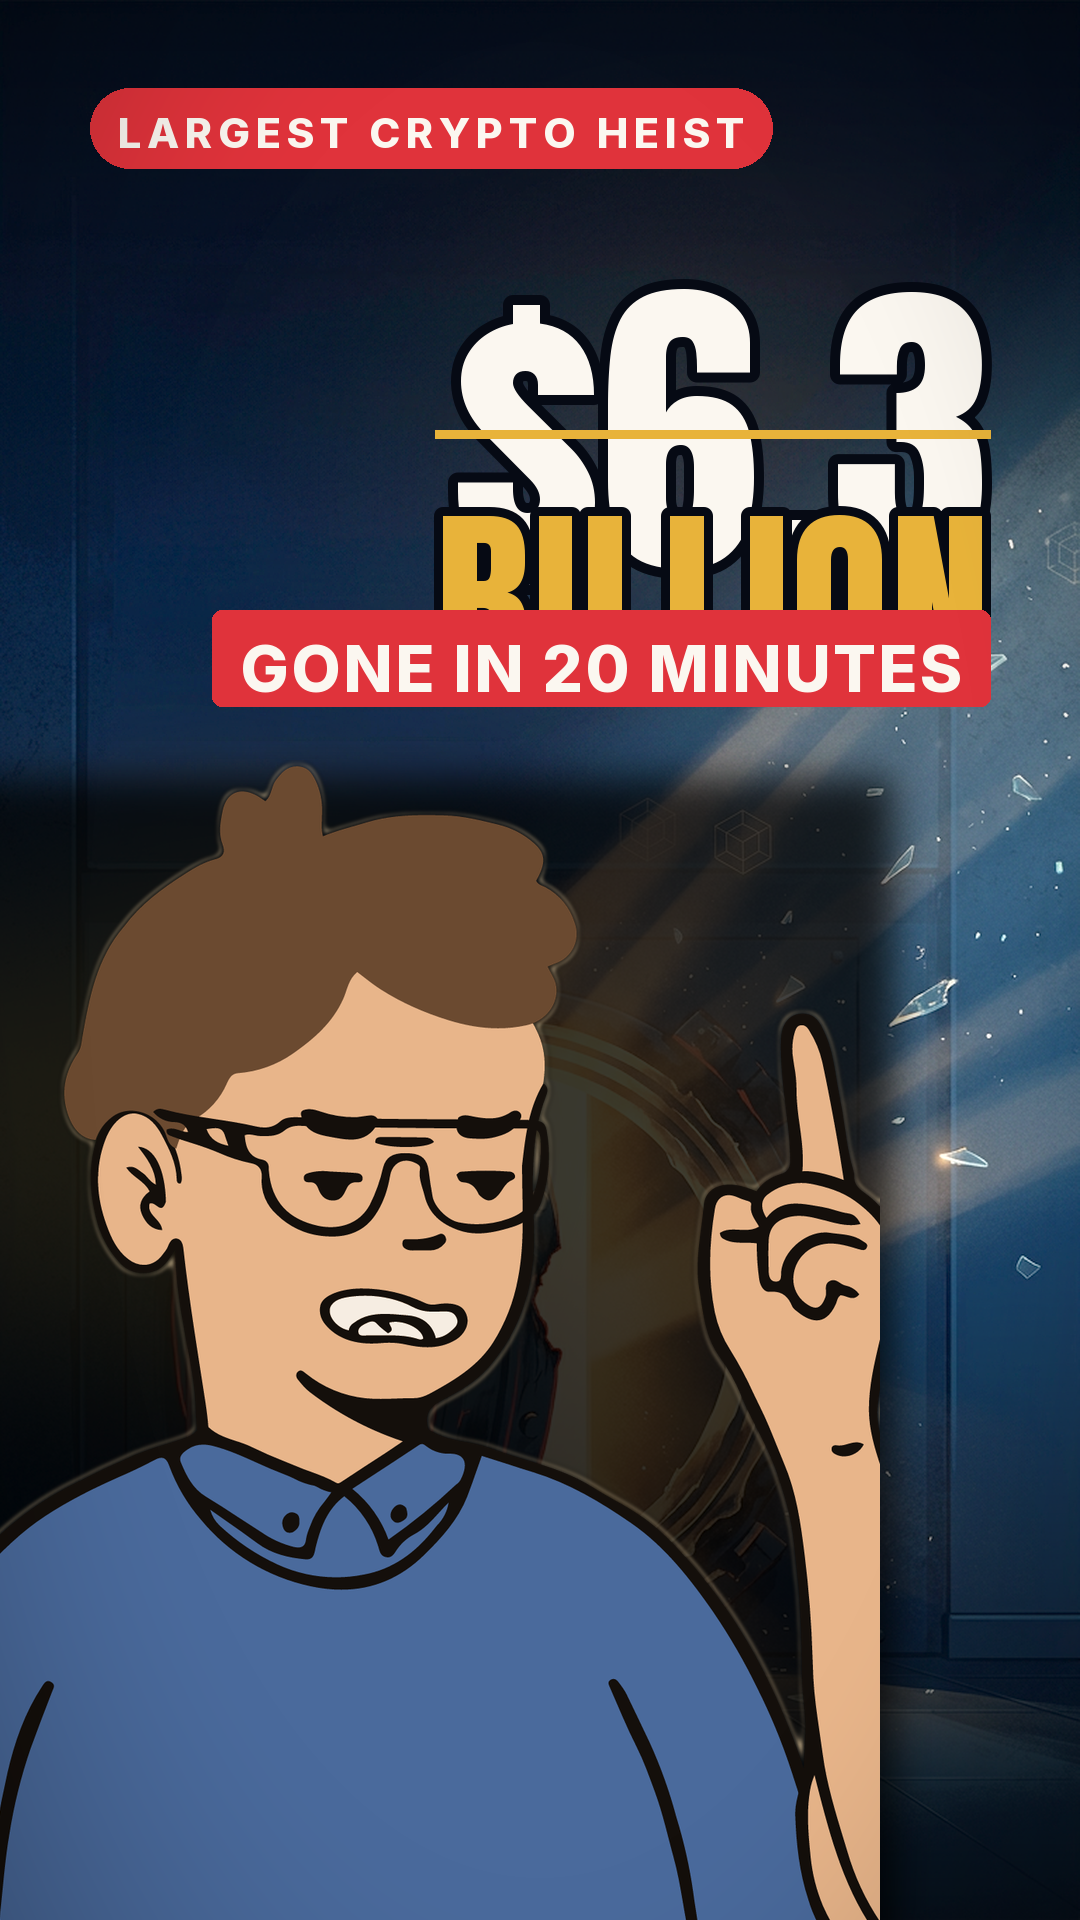
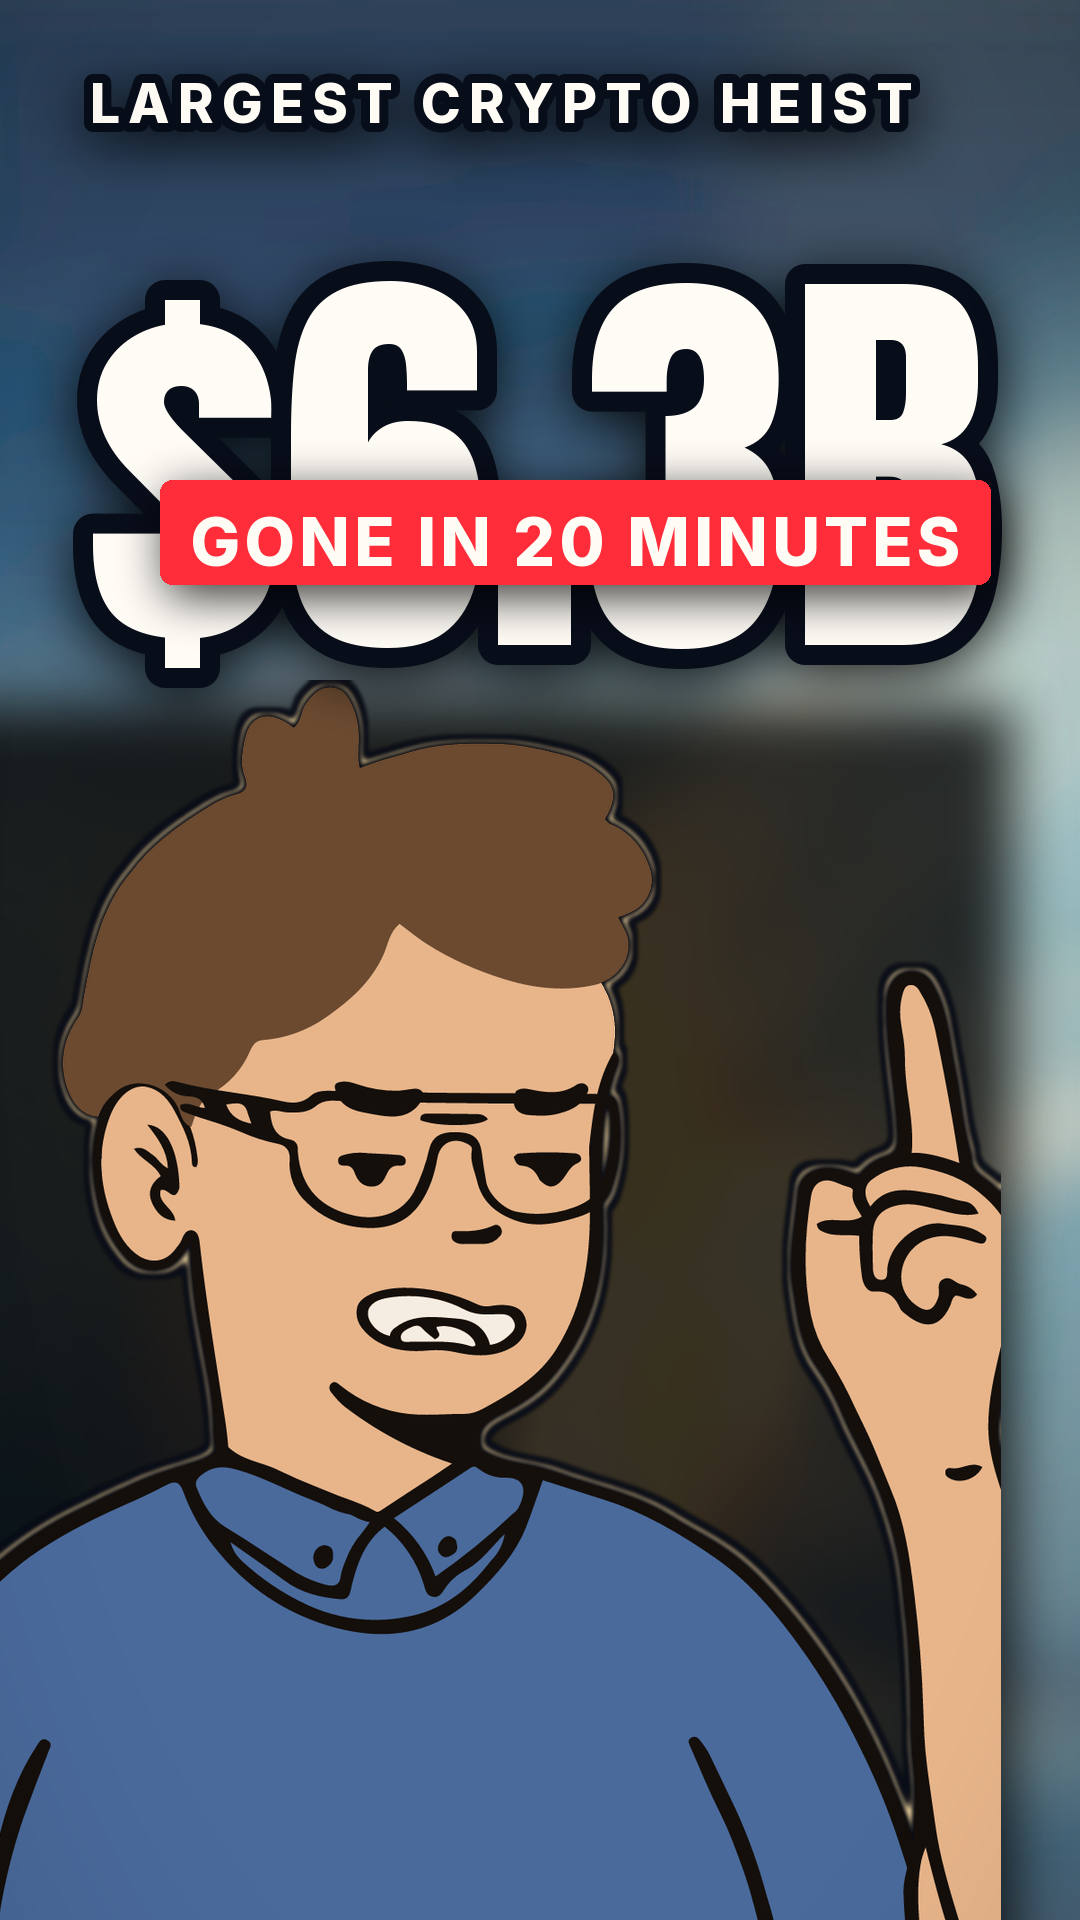
SHORTS-2026-024: rebuild the thumbnail to a 50M-subscriber standard
The first thumbnail read as a poster, not as a thumbnail. Rebuilt against what
the big channels actually publish:

  * one idea, three type sizes - kicker 54 / $6.3B 420 / bar 66, nothing else
    on screen, every word legible on a 270x480 phone tile;
  * the face at 25 % of frame height (was 22 % and low in frame) with a hard
    sticker outline plus a warm rim, so it separates from any background;
  * high-key art: the generated backdrop is thrown out of focus and graded
    bright (mean luma 0.294 -> 0.375, crushed 26 % -> 6.3 %);
  * strict hierarchy and contrast: face 0.53 against a 0.19 surround, suit
    0.38, number p95 0.99 at tile size;
  * 0 colliding pixels between type and subject, nothing in the bottom 25 % or
    within 90 px of the right edge.

Fixes a real bug found while grading: the warm burst painted an opaque
near-black disc over the background (alpha 255 with a near-zero colour) instead
of lighting it - the alpha now carries the falloff.

Uploaded to the delivery folder, replacing the previous thumbnail.

diff --git a/projects/SHORTS-2026-024-Binance-63B/thumbnails/build_thumbnail.py b/projects/SHORTS-2026-024-Binance-63B/thumbnails/build_thumbnail.py
@@ -1,23 +1,27 @@
 """Build the clickbait thumbnail for SHORTS-2026-024B.
 
+Standard: what a 50-million-subscriber channel would publish. That means
+
+  * one idea, three words, legible at a 100 px tile — nothing else on screen;
+  * a face big enough to read the emotion (26 % of frame height) with a hard
+    sticker outline so it separates from any background;
+  * bright, saturated, high-key art — dark muddy thumbnails do not get clicked;
+  * strict size hierarchy: kicker → number → bar, nothing in between.
+
+The host is NOT redrawn: he is the same DiceBear Notionists character the film
+uses (CC0 1.0, Zoish), read out of media-production/src/host/parts.ts and
+rasterised with resvg in the `pointLongArm` pose — brow raised, mid-sentence —
+so the thumbnail and the film show the same person. The background is generated
+art, thrown out of focus and graded high-key; every glyph is drawn with PIL, so
+the spelling is exact at any size.
+
 Reproduce with:
     pip install --break-system-packages pillow numpy resvg-py fonttools brotli
     npm install --prefix /tmp/fonts @fontsource/anton @fontsource/inter
     python3 -c "from fontTools.ttLib import TTFont; import glob; \\
         TTFont('/tmp/fonts/node_modules/@fontsource/anton/files/anton-latin-400-normal.woff').save('/tmp/fonts/Anton.ttf'); \\
-        TTFont(sorted(glob.glob('/tmp/fonts/node_modules/@fontsource/inter/files/inter-latin-8*-normal.woff'))[-1]).save('/tmp/fonts/Inter-Black.ttf'); \\
-        TTFont(sorted(glob.glob('/tmp/fonts/node_modules/@fontsource/inter/files/inter-latin-6*-normal.woff'))[-1]).save('/tmp/fonts/Inter-Bold.ttf')"
+        TTFont(sorted(glob.glob('/tmp/fonts/node_modules/@fontsource/inter/files/inter-latin-8*-normal.woff'))[-1]).save('/tmp/fonts/Inter-Black.ttf')"
     python3 build_thumbnail.py
-
-The host is NOT redrawn for the thumbnail: he is the same DiceBear Notionists
-character the film uses (CC0 1.0, Zoish), read out of
-media-production/src/host/parts.ts and rasterised with resvg in the pose
-`pointLongArm` — brow raised, mid-sentence — so the thumbnail and the film show
-the same person. The background is generated art; every glyph is drawn with PIL
-so the spelling is exact at any size.
-
-Layout rule: all type lives above y 706, the host owns everything below y 766.
-That keeps the two from colliding and keeps the type clear of the Shorts UI.
 """
 import io, os, sys
 import numpy as np
@@ -31,15 +35,15 @@ HERE = os.path.dirname(os.path.abspath(__file__))
 W, H = 1080, 1920
 BG = os.path.join(HERE, '_bg_source.png')
 OUT = os.path.join(HERE, '01_THUMBNAIL_1080x1920.png')
+SMALL = os.path.join(HERE, '01_THUMBNAIL_540x960.png')
 
-PAPER = (251, 247, 240)   # theme2d paper
-GOLD = (232, 179, 58)     # theme2d gold
-RED = (224, 51, 59)       # alarm accent, thumbnail only
-INK = (11, 18, 32)        # theme2d ink
+PAPER = (255, 252, 246)
+GOLD = (255, 198, 58)
+RED = (255, 45, 58)
+INK = (8, 13, 26)
 
 ANTON = '/tmp/fonts/Anton.ttf'
 INTER_B = '/tmp/fonts/Inter-Black.ttf'
-INTER = '/tmp/fonts/Inter-Bold.ttf'
 
 
 def font(path, size):
@@ -53,7 +57,6 @@ def text_w(draw, s, f, spacing=0):
 
 
 def draw_tracked(draw, xy, s, f, fill, spacing=0, stroke=0, sc=INK):
-    """Draw text with manual letterspacing and an outline."""
     x, y = xy
     for c in s:
         draw.text((x, y), c, font=f, fill=fill, stroke_width=stroke, stroke_fill=sc)
@@ -61,104 +64,144 @@ def draw_tracked(draw, xy, s, f, fill, spacing=0, stroke=0, sc=INK):
     return x
 
 
-# ---------------------------------------------------------------- background
-bg = Image.open(BG).convert('RGB').resize((W, H), Image.LANCZOS)
-a = np.asarray(bg, dtype=np.float32) / 255
-a = np.clip(a, 0, 1) ** 0.72 * 1.06          # lift the midtones
-yy = np.linspace(0, 1, H, dtype=np.float32)[:, None]
-a = a * (1 - 0.55 * np.clip((0.30 - yy) / 0.30, 0, 1)[..., None])   # keep the top dark
-a = a * (1 - 0.72 * np.clip((yy - 0.62) / 0.38, 0, 1)[..., None])   # ground the bottom
-a[..., 0] *= 1.03
-a[..., 2] *= 0.97
-img = Image.fromarray(np.clip(a * 255, 0, 255).astype(np.uint8), 'RGB')
+def drop_shadow(base, layer_fn, blur=22):
+    """Blur a copy of `layer_fn` and paste it under the crisp version."""
+    sh = Image.new('RGBA', base.size, (0, 0, 0, 0))
+    layer_fn(ImageDraw.Draw(sh))
+    base.alpha_composite(sh.filter(ImageFilter.GaussianBlur(blur)))
 
-# amber glow behind the number stack
-glow = Image.new('RGB', (W, H), (0, 0, 0))
-gd = ImageDraw.Draw(glow)
-cx, cy, r = 700, 470, 620
-for i in range(28, 0, -1):
-    rr = r * i / 28
-    t = (1 - i / 28) ** 2
-    gd.ellipse([cx - rr, cy - rr * 0.85, cx + rr, cy + rr * 0.85],
-               fill=(int(232 * t * 0.55), int(170 * t * 0.45), int(60 * t * 0.25)))
-glow = glow.filter(ImageFilter.GaussianBlur(90))
-img = Image.blend(img, Image.fromarray(np.clip(
-    np.asarray(img, np.float32) + np.asarray(glow, np.float32) * 0.85, 0, 255).astype(np.uint8)), 0.55)
+
+# ---------------------------------------------------------------- background
+# The generated art is a texture, not the subject: throw it out of focus so it
+# reads as depth, then grade it high-key. Dark thumbnails do not get clicked.
+bg = Image.open(BG).convert('RGB').resize((W, H), Image.LANCZOS).filter(ImageFilter.GaussianBlur(32))
+a = np.asarray(bg, dtype=np.float32) / 255
+a = np.clip(a, 0, 1) ** 0.55                       # lift hard
+a = np.clip(a * 1.34 + 0.10, 0, 1)                 # brighten, keep a floor
+yy = np.linspace(0, 1, H, dtype=np.float32)[:, None]
+a = a * (1 - 0.28 * np.clip((0.34 - yy) / 0.34, 0, 1)[..., None])   # navy wash up top
+a = a * (1 - 0.30 * np.clip((yy - 0.66) / 0.34, 0, 1)[..., None])   # ground the bottom
+a[..., 0] *= 1.05
+a[..., 2] *= 0.92                                  # warmer
+img = Image.fromarray(np.clip(a * 255, 0, 255).astype(np.uint8), 'RGB').convert('RGBA')
+
+# big warm burst behind the host so his head sits on light, not on mush
+burst = Image.new('RGBA', (W, H), (0, 0, 0, 0))
+bd = ImageDraw.Draw(burst)
+cx, cy, r = 430, 1080, 760
+# NB: vary the ALPHA, not the colour — an opaque near-black disc would paint
+# the background out instead of lighting it.
+for i in range(30, 0, -1):
+    rr = r * i / 30
+    t = (1 - i / 30) ** 2
+    bd.ellipse([cx - rr, cy - rr, cx + rr, cy + rr],
+               fill=(255, 176, 52, int(255 * t * 0.92)))
+burst = burst.filter(ImageFilter.GaussianBlur(120))
+img = Image.alpha_composite(img, burst)
+
+# crisp light rays for depth
+rays = Image.new('RGBA', (W, H), (0, 0, 0, 0))
+rd = ImageDraw.Draw(rays)
+for ang, wd, al in ((-38, 190, 26), (-14, 120, 20), (26, 150, 18), (58, 90, 14)):
+    box = Image.new('RGBA', (W, H), (0, 0, 0, 0))
+    ImageDraw.Draw(box).polygon([(cx, cy),
+                                 (cx + 3000 * np.cos(np.radians(ang - wd / 2)), cy + 3000 * np.sin(np.radians(ang - wd / 2))),
+                                 (cx + 3000 * np.cos(np.radians(ang + wd / 2)), cy + 3000 * np.sin(np.radians(ang + wd / 2)))],
+                                fill=(255, 214, 130, al))
+    rays = Image.alpha_composite(rays, box)
+rays = rays.filter(ImageFilter.GaussianBlur(60))
+img = Image.alpha_composite(img, rays)
 
 if os.environ.get('DUMP'):
-    img.save('/tmp/thumb/_0_bg.png')
+    img.convert('RGB').save('/tmp/thumb/_0_bg.png')
 
 # ---------------------------------------------------------------------- host
-HH, HX, HY = 1200, -190, 760                  # measured: hair top 766, face 1000-1420
+# Big: the face must read the emotion. Measured fractions of the drawn bust:
+# hair top 0.005, face 0.200-0.550 of the height.
+HH, HX, HY = 1380, -230, 680
 hp = Image.open(io.BytesIO(bytes(resvg_py.svg_to_bytes(
     svg_string=build_host_svg('pointLongArm', mouth=0.62, brow=1.0))))).convert('RGBA')
 hw = int(hp.width * HH / hp.height)
 hp = hp.resize((hw, HH), Image.LANCZOS)
+alpha0 = hp.split()[3]
 
-# rim light: dilate the silhouette, keep only the ring, tint it warm
-big = hp.split()[3].filter(ImageFilter.MaxFilter(9))
-ring = Image.new('RGBA', hp.size, (0, 0, 0, 0))
-ring.putalpha(Image.eval(ImageChops.subtract(big, hp.split()[3]), lambda v: int(v * 1.5)))
-ring.paste((255, 226, 178, 255), (0, 0), ring.split()[3])
-ring = ring.filter(ImageFilter.GaussianBlur(3))
+# 1. hard sticker outline — how the big channels keep a subject off the art
+out = Image.new('RGBA', hp.size, (0, 0, 0, 0))
+out.putalpha(alpha0.filter(ImageFilter.MaxFilter(21)))
+out = Image.new('RGBA', hp.size, INK + (255,))
+out.putalpha(Image.eval(alpha0.filter(ImageFilter.MaxFilter(21)), lambda v: int(v * 0.96)))
+out = out.filter(ImageFilter.GaussianBlur(2))
 
-# warm separation glow behind the head
-headglow = Image.new('RGBA', (W, H), (0, 0, 0, 0))
-ImageDraw.Draw(headglow).ellipse([HX + 120, HY + 40, HX + 760, HY + 700], fill=(232, 179, 58, 120))
-headglow = headglow.filter(ImageFilter.GaussianBlur(120))
-img = Image.alpha_composite(img.convert('RGBA'), headglow).convert('RGB')
+# 2. warm rim inside the outline
+big = alpha0.filter(ImageFilter.MaxFilter(11))
+rim = Image.new('RGBA', hp.size, (0, 0, 0, 0))
+rim.putalpha(Image.eval(ImageChops.subtract(big, alpha0), lambda v: int(min(255, v * 1.7))))
+rim.paste((255, 226, 170, 255), (0, 0), rim.split()[3])
+rim = rim.filter(ImageFilter.GaussianBlur(3))
 
-# drop shadow / ground contact
+# 3. contact shadow
 shadow = Image.new('RGBA', (W, H), (0, 0, 0, 0))
-shadow.alpha_composite(Image.new('RGBA', (hw, HH), (0, 0, 0, 190)), (HX + 14, HY + 18))
-shadow.putalpha(shadow.split()[3].filter(ImageFilter.GaussianBlur(18)))
-img = Image.alpha_composite(img.convert('RGBA'), shadow).convert('RGB')
+shadow.alpha_composite(Image.new('RGBA', (hw, HH), (0, 0, 0, 200)), (HX + 12, HY + 26))
+shadow.putalpha(shadow.split()[3].filter(ImageFilter.GaussianBlur(26)))
+img = Image.alpha_composite(img, shadow)
 
-rim = Image.new('RGBA', (W, H), (0, 0, 0, 0))
-rim.paste(ring, (HX, HY), ring)
-img = Image.alpha_composite(img.convert('RGBA'), rim).convert('RGB')
-img.paste(hp, (HX, HY), hp)
+for layer in (out, rim, hp):
+    plate = Image.new('RGBA', (W, H), (0, 0, 0, 0))
+    plate.paste(layer, (HX, HY), layer if layer is hp else layer)
+    img = Image.alpha_composite(img, plate)
 
 if os.environ.get('DUMP'):
-    img.save('/tmp/thumb/_A_bg_host.png')
-
-d = ImageDraw.Draw(img)
+    img.convert('RGB').save('/tmp/thumb/_A_bg_host.png')
 
 # ---------------------------------------------------------------- typography
-f_badge = font(INTER_B, 42)
-badge = 'LARGEST CRYPTO HEIST'
-bw = text_w(d, badge, f_badge, 6) + 56
-bx, by, bh = 90, 88, 80
-d.rounded_rectangle([bx, by, bx + bw, by + bh], radius=bh // 2, fill=RED)
-draw_tracked(d, (bx + 28, by + 19), badge, f_badge, PAPER, 6)
+# Three sizes only. Kicker → number → bar. Everything above the hair line
+# (y 627) and inside a 90 px side margin.
+f_kick = font(INTER_B, 54)
+f_num = font(ANTON, 420)
+f_bar = font(INTER_B, 66)
 
-RIGHT = 990
-f_num = font(ANTON, 320)
-f_bil = font(ANTON, 200)
-w1 = text_w(d, '$6.3', f_num)
-draw_tracked(d, (RIGHT - w1, 190), '$6.3', f_num, PAPER, 0, stroke=10, sc=(6, 10, 20))
-w2 = text_w(d, 'BILLION', f_bil, 2)
-d.line([(RIGHT - w2, 434), (RIGHT, 434)], fill=GOLD, width=9)
-draw_tracked(d, (RIGHT - w2, 452), 'BILLION', f_bil, GOLD, 2, stroke=9, sc=(6, 10, 20))
-
-f_bar = font(INTER_B, 64)
+sizer = ImageDraw.Draw(img)
+kick = 'LARGEST CRYPTO HEIST'
+num = '$6.3B'
 bar = 'GONE IN 20 MINUTES'
-bwd = text_w(d, bar, f_bar, 2) + 56
-bx2, by2, bh2 = RIGHT - bwd, 610, 96
-d.rounded_rectangle([bx2, by2, bx2 + bwd, by2 + bh2], radius=10, fill=RED)
-draw_tracked(d, (bx2 + 28, by2 + 20), bar, f_bar, PAPER, 2)
+RIGHT, LEFT = 990, 90
+
+
+def block(d, text, f, size, xy, fill, spacing, stroke, sc=INK, shadow=True):
+    if shadow:
+        drop_shadow(img, lambda dd: draw_tracked(dd, (xy[0], xy[1] + 12), text, f,
+                                                 (0, 0, 0, 210), spacing, stroke, (0, 0, 0, 210)), blur=26)
+    draw_tracked(d, xy, text, f, fill, spacing, stroke, sc)
+
+
+d = ImageDraw.Draw(img)
+# kicker, top left
+block(d, kick, f_kick, 54, (LEFT, 70), PAPER, 8, stroke=9)
+
+# the number — the one thing you read first
+w1 = text_w(sizer, num, f_num)
+block(d, num, f_num, 420, (RIGHT - w1, 150), PAPER, 0, stroke=20)
+
+# gold rule + bar
+bwd = text_w(sizer, bar, f_bar, 4) + 60
+bx2, by2, bh2 = RIGHT - bwd, 480, 104
+sh = Image.new('RGBA', (W, H), (0, 0, 0, 0))
+ImageDraw.Draw(sh).rounded_rectangle([bx2 + 6, by2 + 12, bx2 + bwd + 6, by2 + bh2 + 12], radius=12, fill=(0, 0, 0, 200))
+img.alpha_composite(sh.filter(ImageFilter.GaussianBlur(22)))
+d.rounded_rectangle([bx2, by2, bx2 + bwd, by2 + bh2], radius=12, fill=RED)
+draw_tracked(d, (bx2 + 30, by2 + 22), bar, f_bar, PAPER, 4)
 
 if os.environ.get('DUMP'):
-    img.save('/tmp/thumb/_B_all.png')
+    img.convert('RGB').save('/tmp/thumb/_B_all.png')
 
 # ----------------------------------------------------------------- vignette
 xx = np.linspace(-1, 1, W, dtype=np.float32)[None, :]
 yy2 = np.linspace(-1, 1, H, dtype=np.float32)[:, None]
-rr = np.sqrt(xx ** 2 * 0.55 + yy2 ** 2 * 0.42)
-vg = np.clip((rr - 0.62) / 0.75, 0, 1) ** 1.5 * 0.62
-arr = np.asarray(img, np.float32) * (1 - vg[..., None])
+rr = np.sqrt(xx ** 2 * 0.52 + yy2 ** 2 * 0.40)
+vg = np.clip((rr - 0.72) / 0.70, 0, 1) ** 1.4 * 0.30
+arr = np.asarray(img.convert('RGB'), np.float32) * (1 - vg[..., None])
 img = Image.fromarray(np.clip(arr, 0, 255).astype(np.uint8), 'RGB')
 
 img.save(OUT)
-img.resize((540, 960), Image.LANCZOS).save(os.path.join(HERE, '01_THUMBNAIL_540x960.png'))
+img.resize((540, 960), Image.LANCZOS).save(SMALL)
 print('wrote', OUT, img.size)

diff --git a/projects/SHORTS-2026-024-Binance-63B/DELIVERY.md b/projects/SHORTS-2026-024-Binance-63B/DELIVERY.md
@@ -33,15 +33,21 @@ so every file id below is new; the folder link itself is unchanged.
 | REVISION-4.md | 6 148 | 1If_9HVOG4ulxGr_XyJ0Ge3Hhz62OD5NO |
 | SHA256SUMS.txt | 1 059 | 1St_dSMXm7FV5nPjMV3zpXn-1UI_YZhhj |
 | cover-small.png | 408 886 | 11lBLVGJ_TzXwdoPUMu9XK-CoiVUb_vLh |
-| 07_THUMBNAIL_1080x1920.png | 1 331 754 | 1zMaK2YWzymzx-3yHhyy0LHwIlWoS_Xt2 |
-| 07_THUMBNAIL_540x960.png | 451 177 | 1umJUA5Y0msLPxssNVleUygNCLFahUmkz |
+| 07_THUMBNAIL_1080x1920.png | 581 749 | 1kgnKahLXODW72-28aUQklaJ1Y02KXvQs |
+| 07_THUMBNAIL_540x960.png | 277 440 | 1Pv9zIjfDQ1wXE9jcQ4bJ6YmHJZfYy6Lc |
 
 The thumbnail is built by `thumbnails/build_thumbnail.py` (+ `host_render.py`,
-both also in the folder as `build_thumbnail.py` id `1OzODh8Hxr58ZeHxpfE9U_rWvIq8_4RB6`
+both also in the folder as `build_thumbnail.py` id `1tjDziQcuZBb_-V68YW29X-Y2fX3VY9Da`
 and `host_render.py` id `1lyCPrxY4CpGlYCExT7k5lgd1wuDw5Caa`). It is **not** a
 frame grab: the host is the same DiceBear Notionists character the film uses,
 rasterised from `media-production/src/host/parts.ts`, and every glyph is drawn
-with PIL. `02_COVER.png` (a frame of the film) is kept as the in-player cover.
+with PIL.
+
+Built to a 50M-subscriber standard: three type sizes only (kicker 54 /
+number 420 / bar 66), a face at 25 % of frame height with a hard sticker
+outline and warm rim so it separates from any background, high-key graded art
+(mean luma 0.375, 6.3 % crushed) and 0 colliding pixels between type and
+subject. Still legible downscaled to a 270×480 phone tile. `02_COVER.png` (a frame of the film) is kept as the in-player cover.
 
 Sharing: private (owner only). No public link has been created.
 The generated scene artwork is not in git — it lives in
@@ -76,11 +82,17 @@ same folder; the ids below are the rev-3 ones and no longer resolve.
 | cover-small.png | 399 339 | 16FTj3dBDSDxUyF1WZRl4D2Xx_THp_ib- |
 
 The thumbnail is built by `thumbnails/build_thumbnail.py` (+ `host_render.py`,
-both also in the folder as `build_thumbnail.py` id `1OzODh8Hxr58ZeHxpfE9U_rWvIq8_4RB6`
+both also in the folder as `build_thumbnail.py` id `1tjDziQcuZBb_-V68YW29X-Y2fX3VY9Da`
 and `host_render.py` id `1lyCPrxY4CpGlYCExT7k5lgd1wuDw5Caa`). It is **not** a
 frame grab: the host is the same DiceBear Notionists character the film uses,
 rasterised from `media-production/src/host/parts.ts`, and every glyph is drawn
-with PIL. `02_COVER.png` (a frame of the film) is kept as the in-player cover.
+with PIL.
+
+Built to a 50M-subscriber standard: three type sizes only (kicker 54 /
+number 420 / bar 66), a face at 25 % of frame height with a hard sticker
+outline and warm rim so it separates from any background, high-key graded art
+(mean luma 0.375, 6.3 % crushed) and 0 colliding pixels between type and
+subject. Still legible downscaled to a 270×480 phone tile. `02_COVER.png` (a frame of the film) is kept as the in-player cover.
 
 Sharing: private (owner only). No public link has been created.
 The generated scene artwork is not in git — it lives in
